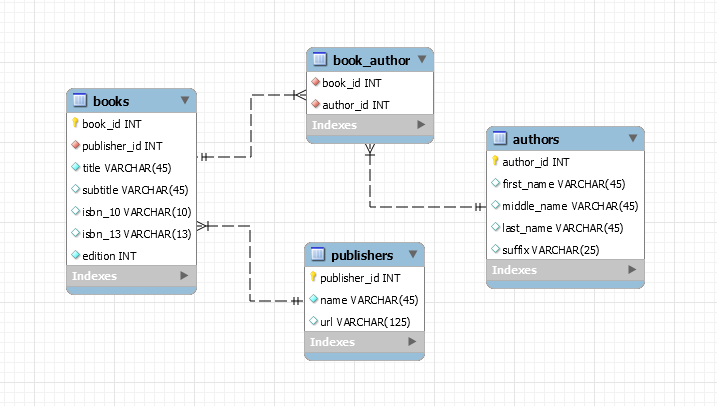
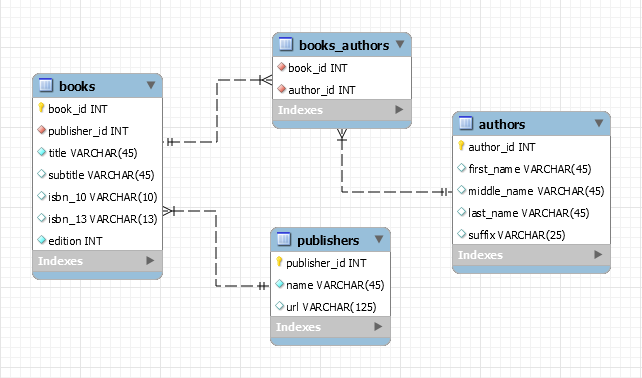
minor updates to database schema and docs.

diff --git a/README.md b/README.md
@@ -1,10 +1,12 @@
 # book-collection-service-node
-Sample Service using Node.js, Express, and Sequelize ORM with MySQL database
+Sample Service using Node.js, Express, and Sequelize ORM with MySQL database.
+
+This project is a work in progress of my journey with learning to create RESTful services using this technology stack.
 
 ## Database Design and Schema Generation
-[Sequelize](https://sequelize.org) has a CLI (Command Line Interface) which can be helpful for creating tables, etc.., but Sequelize is somewhat opioniated on generating a primary key named "id" for every model and timestamp audit fields createdAt and updatedAt by default.
+[Sequelize](https://sequelize.org) has a CLI (Command Line Interface) which can be helpful for getting started with creating models, but Sequelize's default behavior generates a primary key named "id" for every model and timestamp audit fields createdAt and updatedAt by default.  I prefer having more descriptive names for my primary key columns, and I did not want audit timestamp fields for this simple example and had to also disable them in the database config.json file as you will see below.
 
-I took another approach for this project as the database schema for this project was designed and generated using MySQL Workbench.
+I used MySQL Workbench to design and generate the database schema for this project.
 
 See: design/book-collection-data-model.mwb
 
